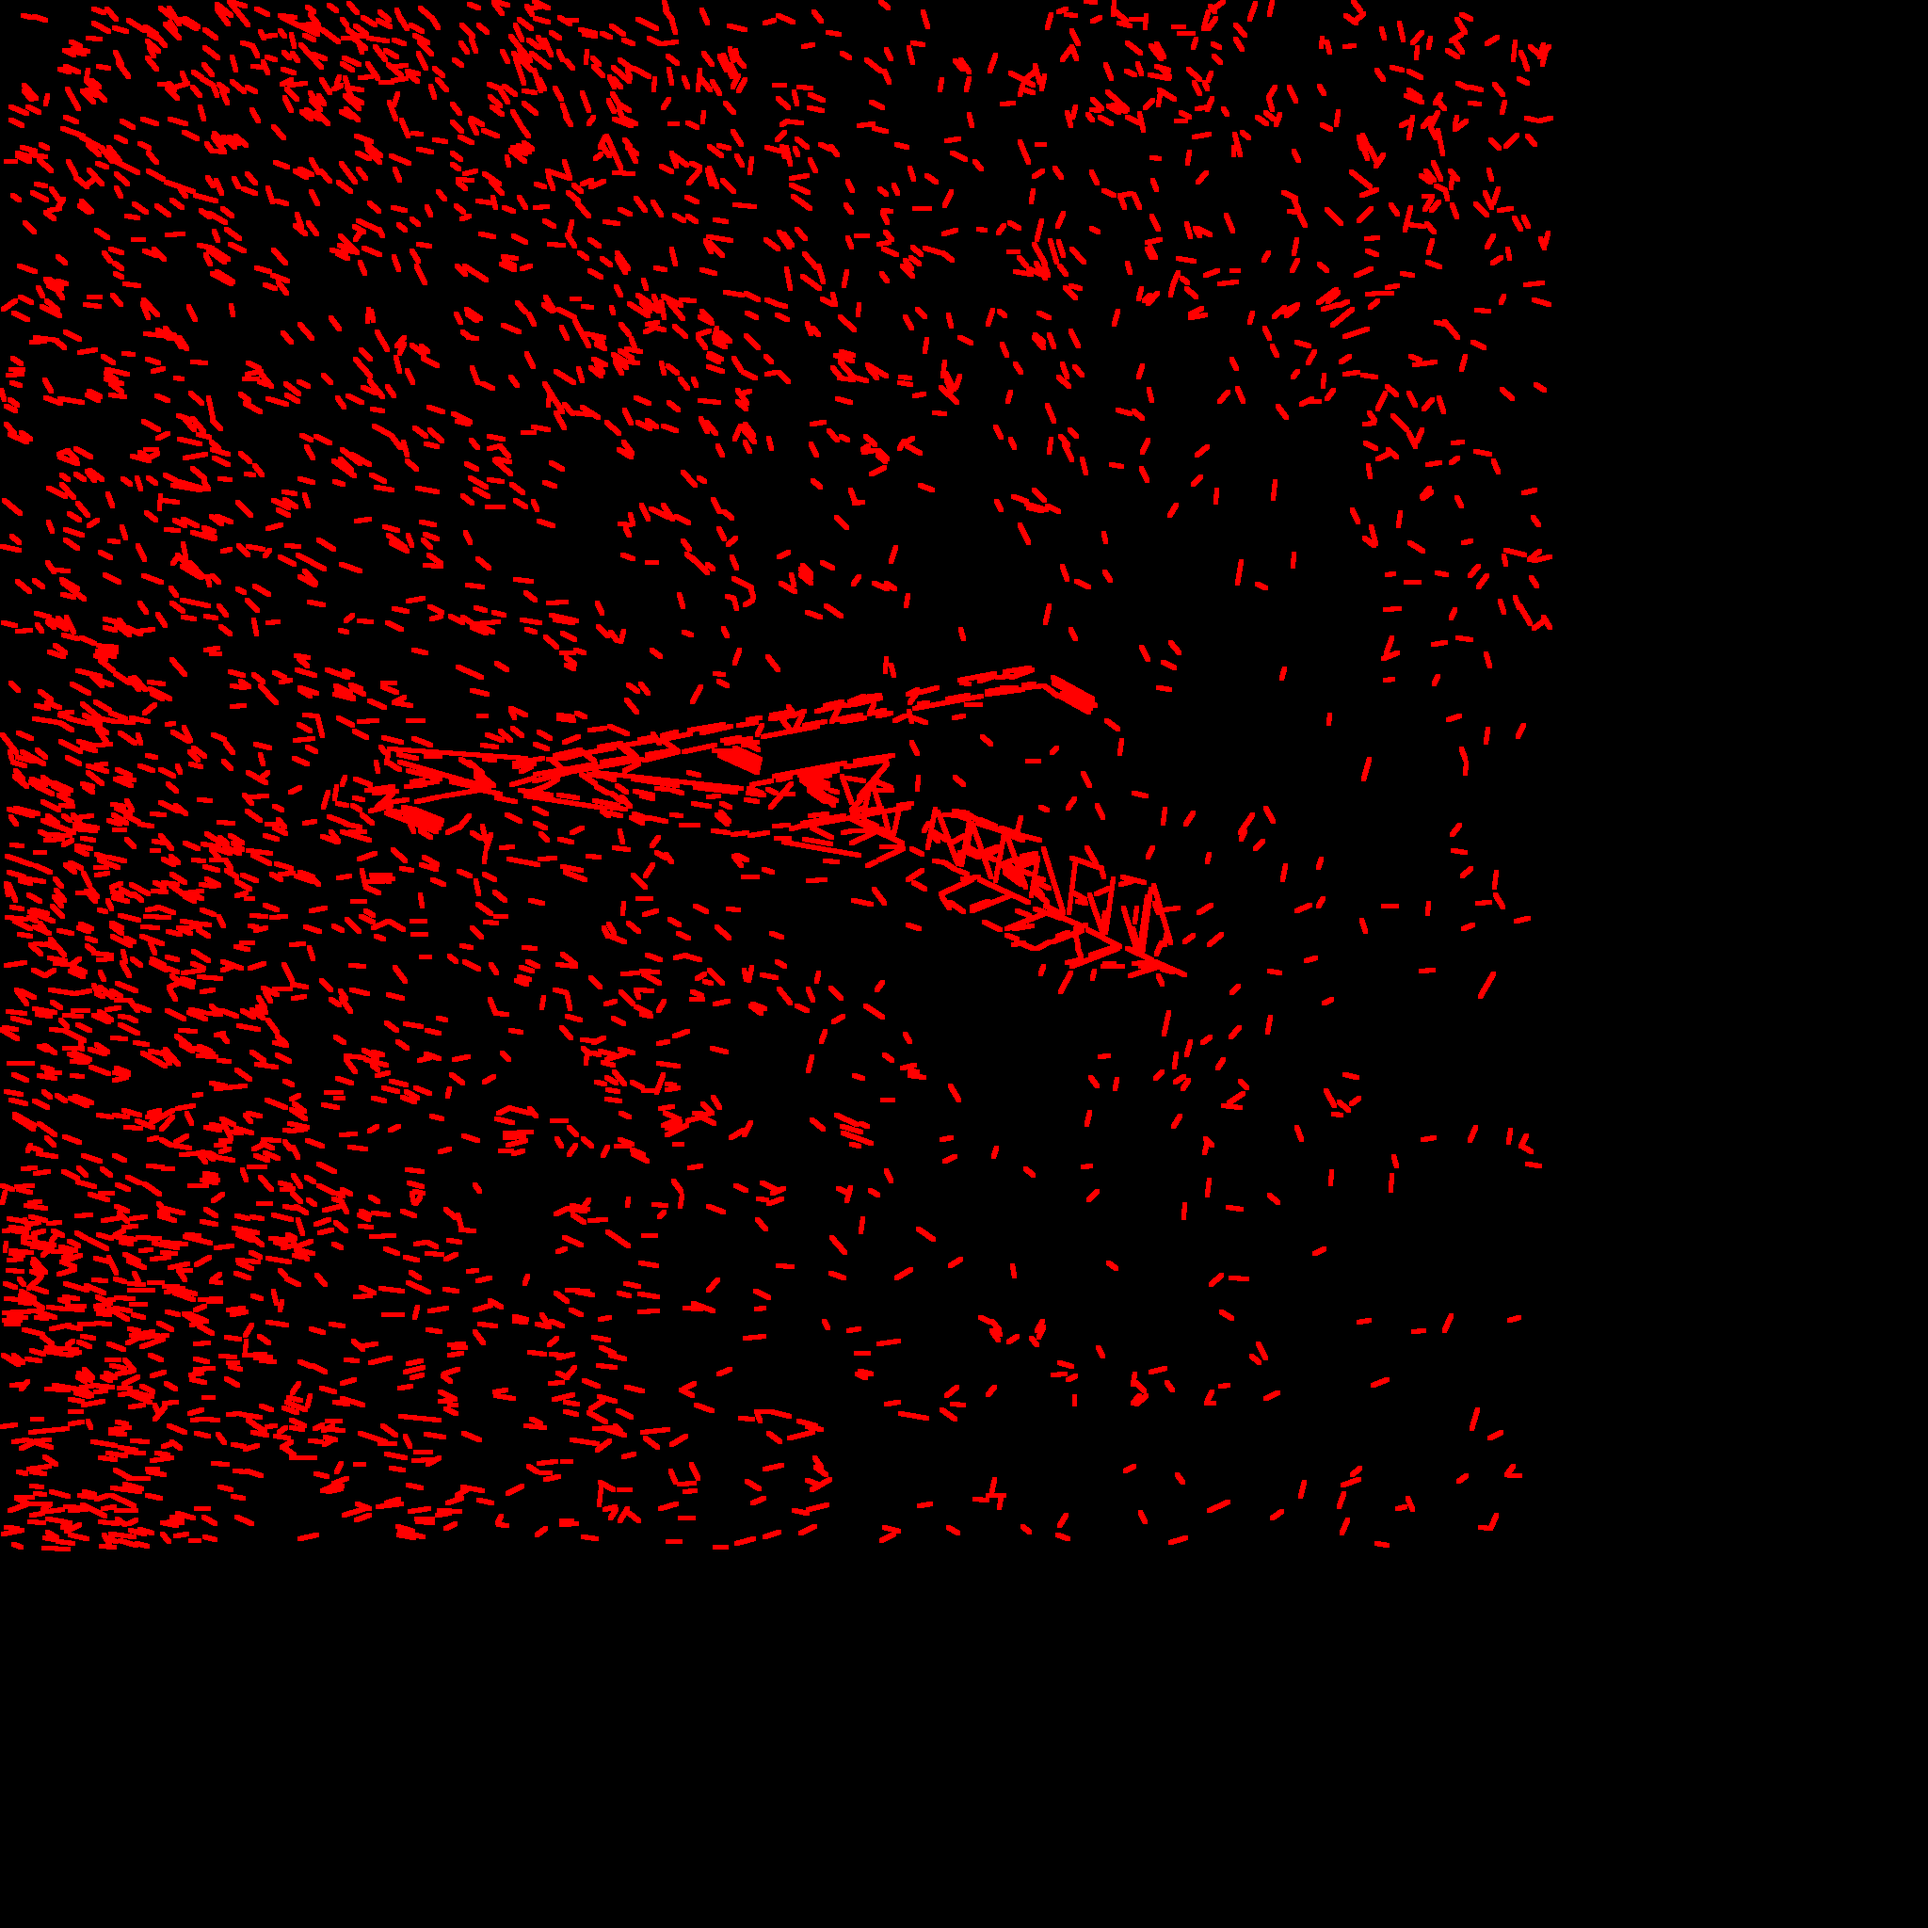
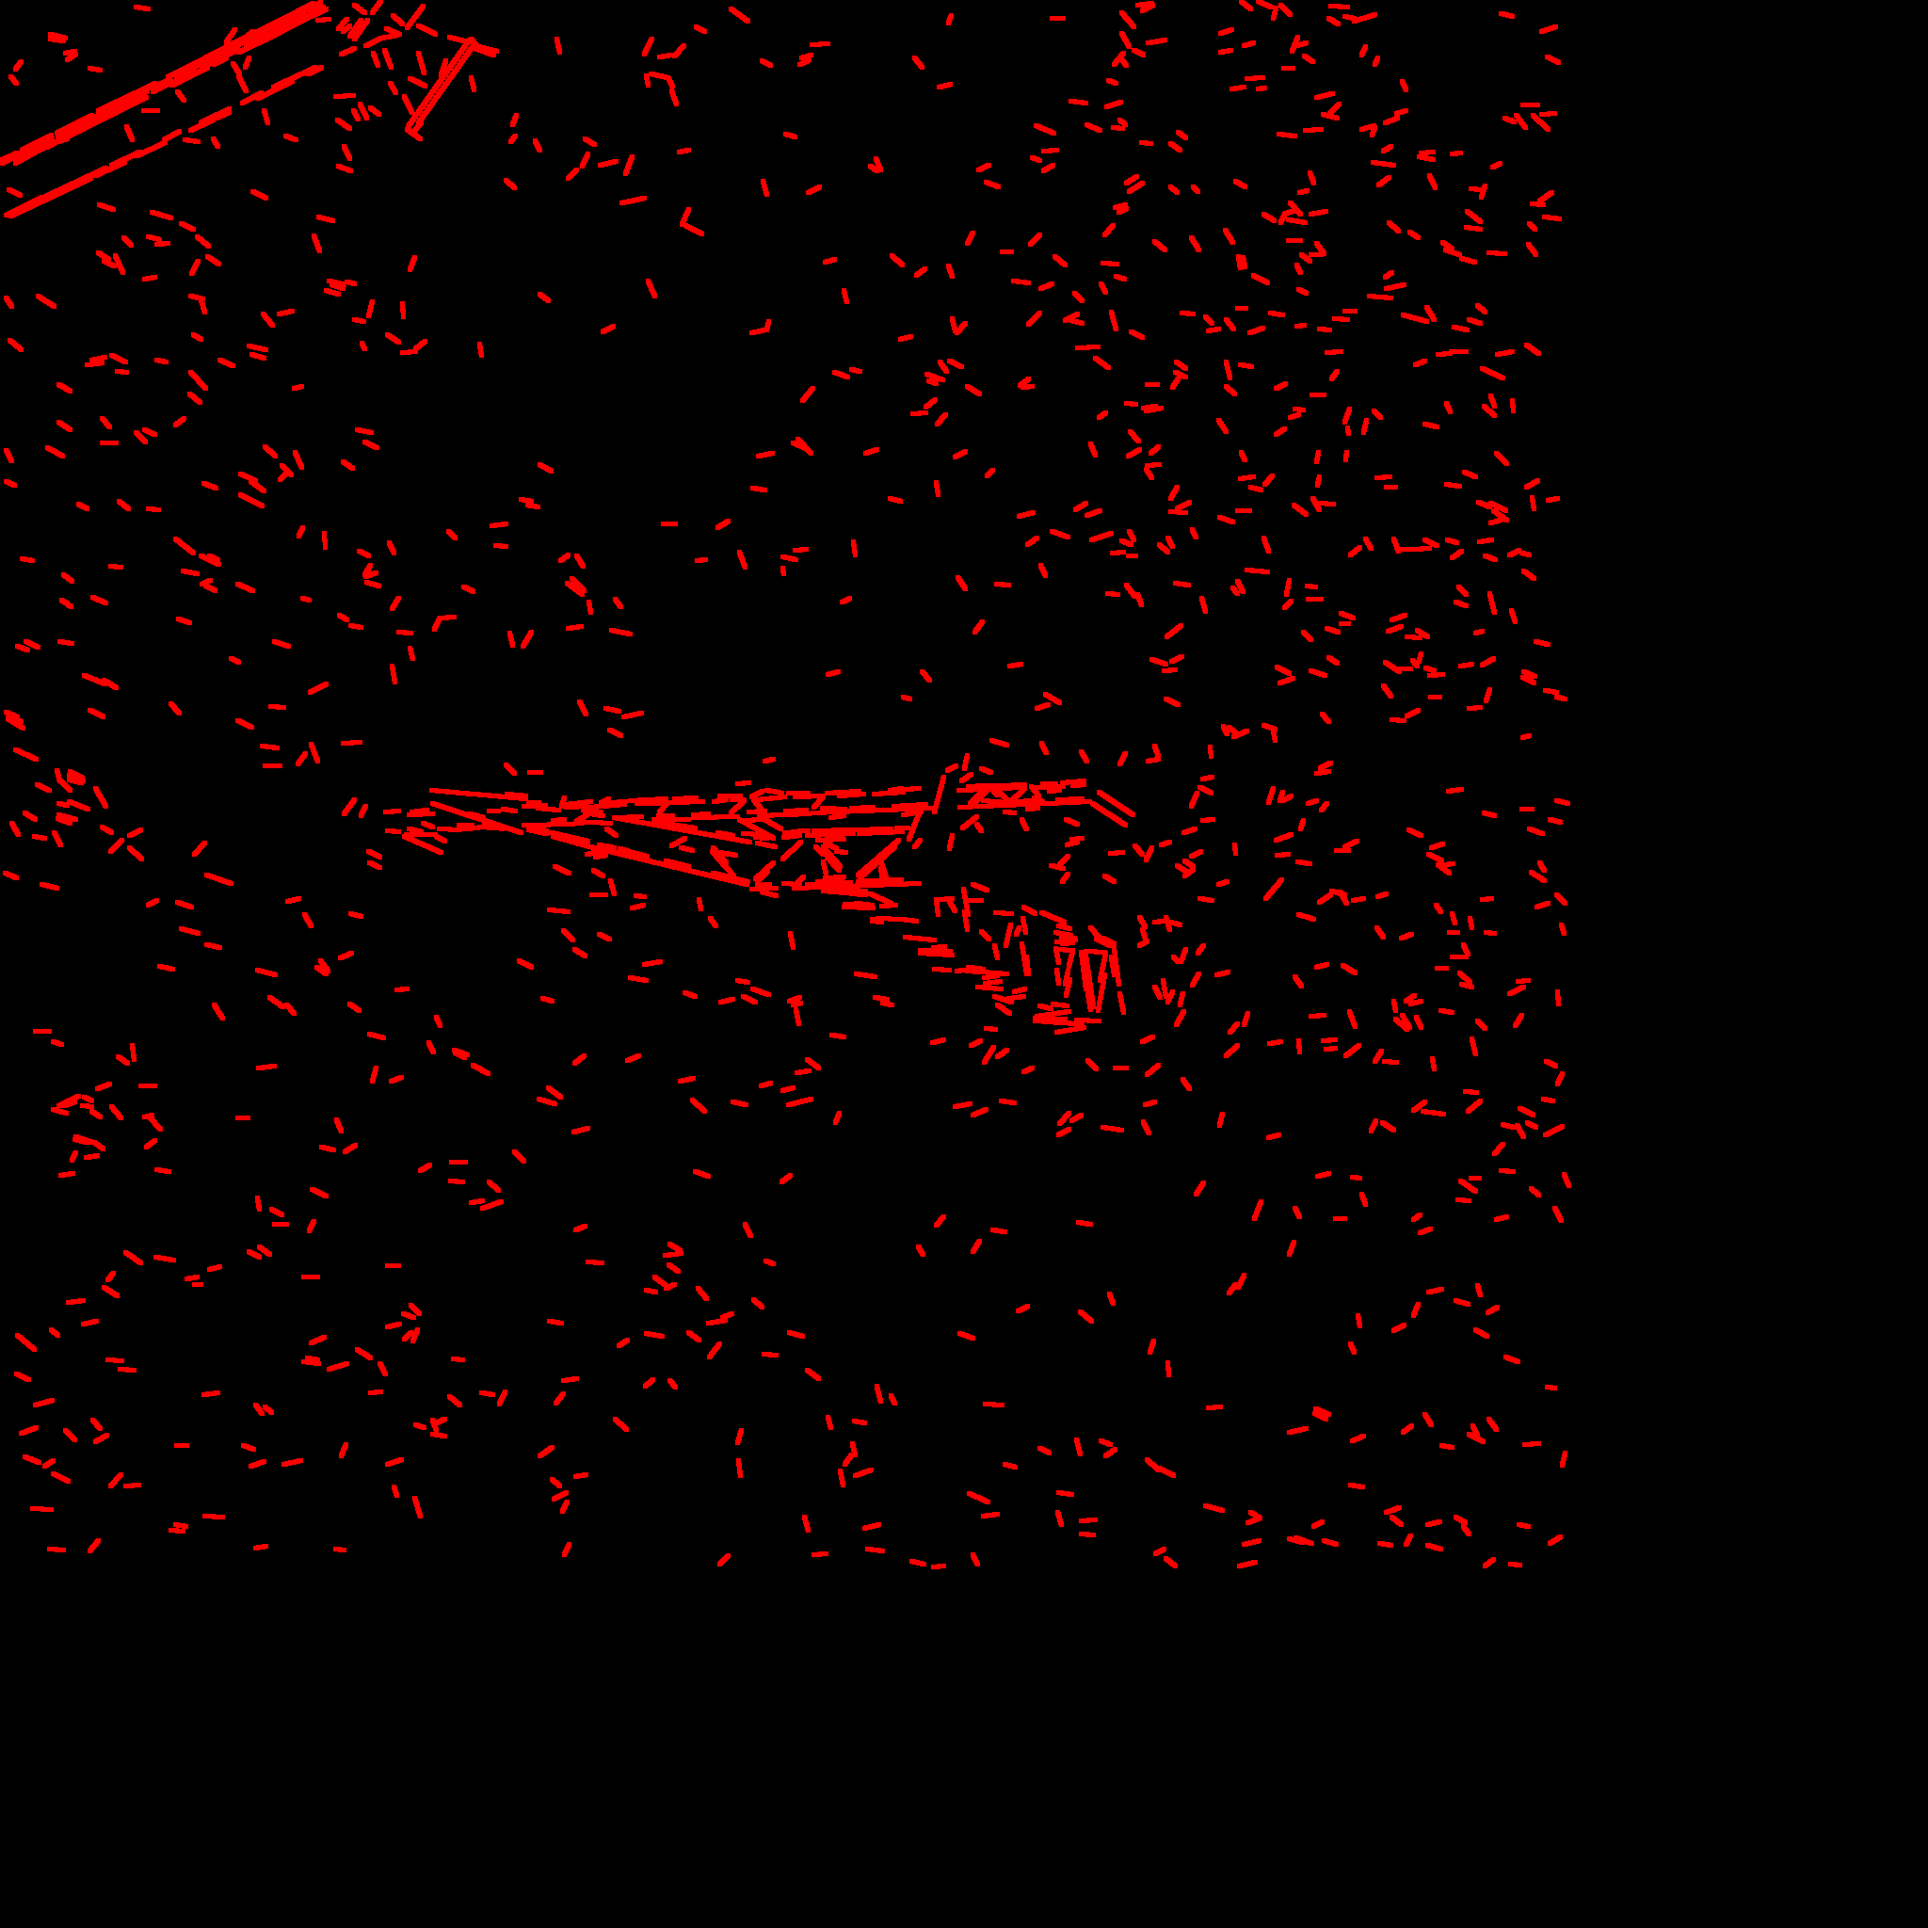
fixups

diff --git a/pres_beta.tex b/pres_beta.tex
@@ -25,7 +25,7 @@
 Supervisor: Dmitry Rykovanov (Geoscan)}
 \title{Render-Based Power Pylon Positioning Using UAV Photos}
 \institute{St Petersburg Academic University}
-\date[b]{16 Mar 2017}
+\date[b]{27 April 2017}
   
 \definecolor{darkgreen}{rgb}{0,0.5,0}
 \definecolor{dhscodebg}{rgb}{0.95,0.95,0.95}
@@ -217,7 +217,6 @@ Data taken from [4], time is in minutes
 \end{itemize}
 \item Pylon detection through SVM
 \begin{itemize}
-\item ORB descriptor for features
 \item ROI is splitted into cells and for each cell decision is made
 \item Time per image (640 x 480) is 25 ms 
 \end{itemize}
@@ -317,7 +316,7 @@ Interestingly, never seen it used anywhere
 \end{subfigure}%
 \begin{subfigure}{.5\textwidth}
 \centering
-\includegraphics[scale=0.072]{roi}
+\includegraphics[scale=0.072]{pylon1}
 \caption{Extracted roi lines}
 \end{subfigure}
 \end{figure}
@@ -487,6 +486,14 @@ Two matchers are currently implemented: exhaustive and triangle
 \end{figure}
 \end{frame}
 
+
+\begin{frame}[t, fragile]{Future Work}
+\begin{itemize}
+\item Good as proof of concept, yet far away from production-level solution
+\item Challenging problem: match different pylons from predefined library
+\item Enhance pylon detection (triangles, neural networks, etc)
+\end{itemize}
+\end{frame}
 
 \begin{frame}[fragile]{Thank You for Your Attention}
 
